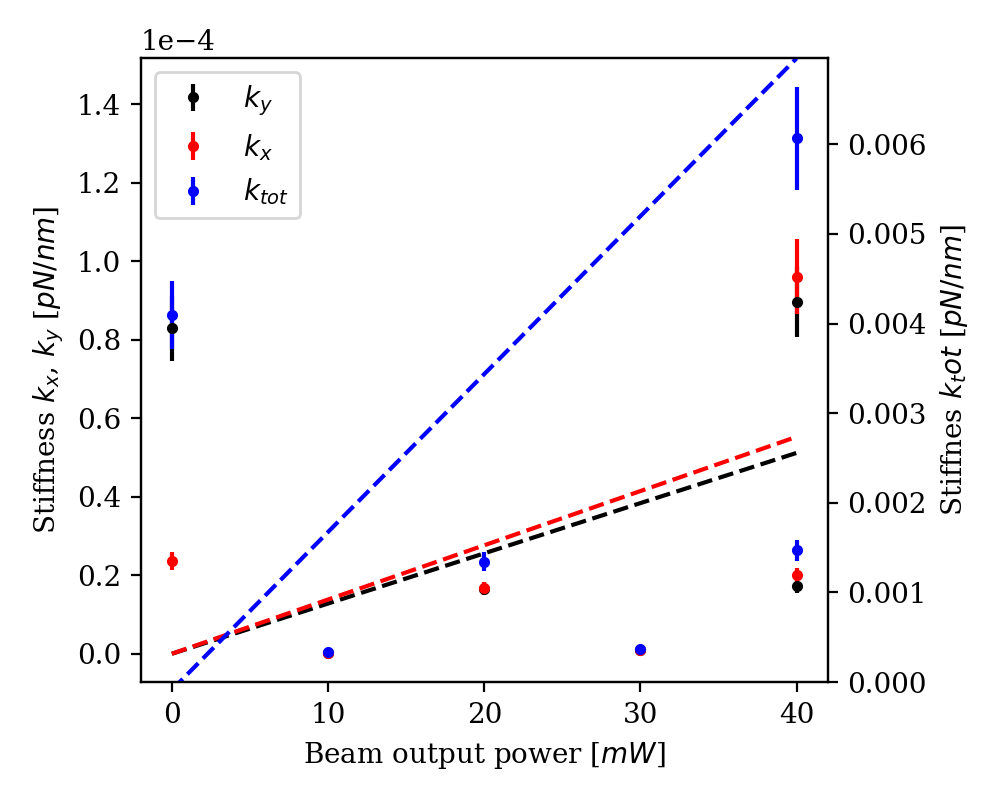
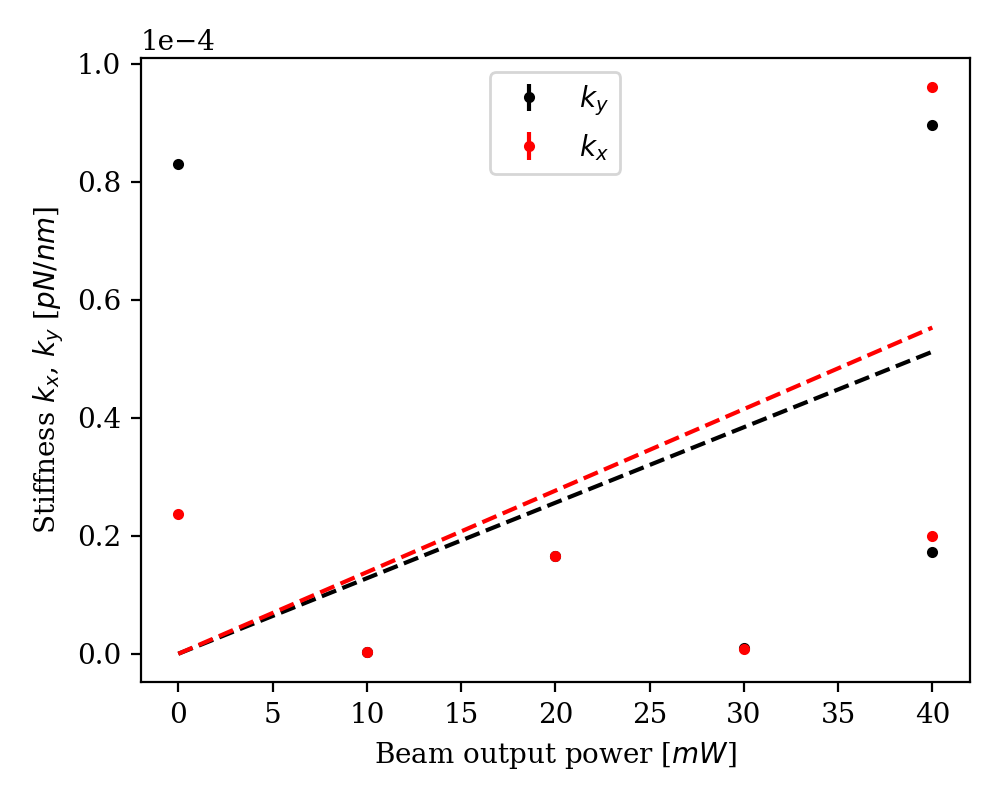
tussendoor

diff --git a/Python/plotting/stiffness_plot.py b/Python/plotting/stiffness_plot.py
@@ -3,6 +3,12 @@ import matplotlib
 import matplotlib.pyplot as plt
 from scipy.optimize import curve_fit as cv
 
+#-----CONSTANTS----------------------------#
+kB = 1.38064852e-23
+T = 293.15
+lpix = 4.68e-8
+
+
 matplotlib.rcParams['figure.dpi']   = 150
 matplotlib.rcParams['font.family']  = "serif"
 
@@ -14,9 +20,9 @@ bead_power      = np.asarray([0, 10, 20, 30, 40, 40])
 bead_x_stiff    = np.asarray([2.3652e-5, 2.4569e-7, 1.665e-5, 8.3591e-7, 1.9969e-5, 9.6086e-5])
 bead_y_stiff    = np.asarray([8.2974e-5, 2.9425e-7, 1.6591e-5, 9.7104e-7, 1.7268e-5, 8.9602e-5])
 bead_t_stiff    = np.sqrt( np.asarray(bead_x_stiff)**2 + np.asarray(bead_y_stiff)**2 )
-bead_x_err = bead_x_stiff/10
-bead_y_err = bead_y_stiff/10
-bead_t_err = np.sqrt( bead_x_err**2 + bead_y_err**2)
+bead_x_err = lpix*((kB*T)**(-1/2))*(bead_x_stiff*1e-3)**(3/2)
+bead_y_err = lpix*((kB*T)**(-1/2))*(bead_y_stiff*1e-3)**(3/2)
+
 
 to_fit_total = np.sqrt(  np.asarray([1.665e-5, 1.9969e-5, 9.6086e-5])**2 + np.asarray([1.6591e-5, 1.7268e-5, 8.9602e-5]))
 
@@ -30,14 +36,13 @@ trap_power      = np.asarray([0, 5, 10, 20, 30, 40])
 trap_x_stiff    = np.asarray([3.6463e-7, 8.2428e-5, 0.00010879, 0.00030305, 0.00061455, 0.00075512])
 trap_y_stiff    = np.asarray([5.55e-7, 4.1822e-5, 2.5336e-5, 0.00011004, 0.00016901, 0.00025401])
 trap_t_stiff    = np.sqrt( np.asarray(trap_x_stiff)**2 + np.asarray(trap_y_stiff)**2 )
-trap_x_err = trap_x_stiff/10
-trap_y_err = trap_y_stiff/10
-trap_t_err = np.sqrt( trap_x_err**2 + trap_y_err**2)
+trap_x_err = lpix*((kB*T)**(-1/2))*(trap_x_stiff*1e-3)**(3/2)
+trap_y_err = lpix*((kB*T)**(-1/2))*(trap_y_stiff*1e-3)**(3/2)
 
 #------FUNCTION FIT-------------------------#
 param_t_x, cov_t_x = cv(fit_func, trap_power, trap_x_stiff, sigma=trap_x_err)
 param_t_y, cov_t_y = cv(fit_func, trap_power, trap_y_stiff, sigma=trap_y_err)
-param_t_t, cov_t_t = cv(fit_func, trap_power, trap_t_stiff, sigma=trap_t_err)
+#param_t_t, cov_t_t = cv(fit_func, trap_power, trap_t_stiff, sigma=trap_t_err)
 
 
 matplotlib.rcParams['lines.linestyle']=''
@@ -47,18 +52,14 @@ X_b = np.linspace(np.min(bead_power),np.max(bead_power), 50)
 fig, ax1 = plt.subplots()
 ax1.errorbar(bead_power, bead_y_stiff, yerr=bead_y_err, fmt='', label=r"$k_y$", marker=".", color='black')
 ax1.errorbar(bead_power, bead_x_stiff, yerr=bead_x_err, fmt='', label=r"$k_x$", marker=".", color='red')
-ax1.errorbar(bead_power, bead_t_stiff, yerr=bead_t_err, fmt='', label=r"$k_{tot}$", marker=".", color='blue')
+#ax1.errorbar(bead_power, bead_t_stiff, yerr=bead_t_err, fmt='', label=r"$k_{tot}$", marker=".", color='blue')
 
 Y_1 = fit_func(X_b, *param_b_y)
 Y_2 = fit_func(X_b, *param_b_x)
-Y_3 = fit_func(np.linspace(0-0.5,40), *param_b_t)
+#Y_3 = fit_func(np.linspace(0-0.5,40), *param_b_t)
 
 ax1.plot(X_b, fit_func(X_b, *param_b_y), linestyle='--', color='black')
 ax1.plot(X_b, fit_func(X_b, *param_b_x), linestyle='--', color='red')
-ax2 = ax1.twinx()
-ax2.plot(np.linspace(0,40), Y_3, linestyle='--', color='blue')
-ax2.set_ylim(0,np.max(Y_3))
-ax2.set_ylabel(r'Stiffnes $k_tot$ [$pN/nm$]')
 
 ax1.ticklabel_format(style='sci', axis='y', scilimits=(0,0))
 ax1.set_xlabel(r'Beam output power [$mW$]')
@@ -79,11 +80,11 @@ X_t = np.linspace(np.min(trap_power),np.max(trap_power), 50)
 
 plt.errorbar(trap_power, trap_x_stiff, yerr=trap_x_err, fmt="", label=r"$k_x$", marker=".", color='black')
 plt.errorbar(trap_power, trap_y_stiff, yerr=trap_y_err, fmt="", label=r"$k_y$", marker=".", color='red')
-plt.errorbar(trap_power, trap_t_stiff, yerr=trap_t_err, fmt="", label=r"$k_{tot}$", marker=".", color='blue')
+#plt.errorbar(trap_power, trap_t_stiff, yerr=trap_t_err, fmt="", label=r"$k_{tot}$", marker=".", color='blue')
 
 plt.plot(X_t, fit_func(X_t, *param_t_x), linestyle='--', color='black')
 plt.plot(X_t, fit_func(X_t, *param_t_y), linestyle='--', color='red')
-plt.plot(X_t, fit_func(X_t, *param_t_t), linestyle='--', color='blue')
+#plt.plot(X_t, fit_func(X_t, *param_t_t), linestyle='--', color='blue')
 
 
 plt.ticklabel_format(style='sci', axis='y', scilimits=(0,0))
@@ -96,5 +97,11 @@ plt.legend()
 plt.tight_layout()
 plt.savefig('plots/trap.png',dpi=200)
 
-print(param_b_x, param_b_y, param_b_t)
-print(param_t_x, param_t_y, param_t_t)
+print(param_b_x, param_b_y)
+print(param_t_x, param_t_y)
+
+print(bead_x_err)
+print(bead_y_err)
+
+print(trap_x_err)
+print(trap_y_err)
